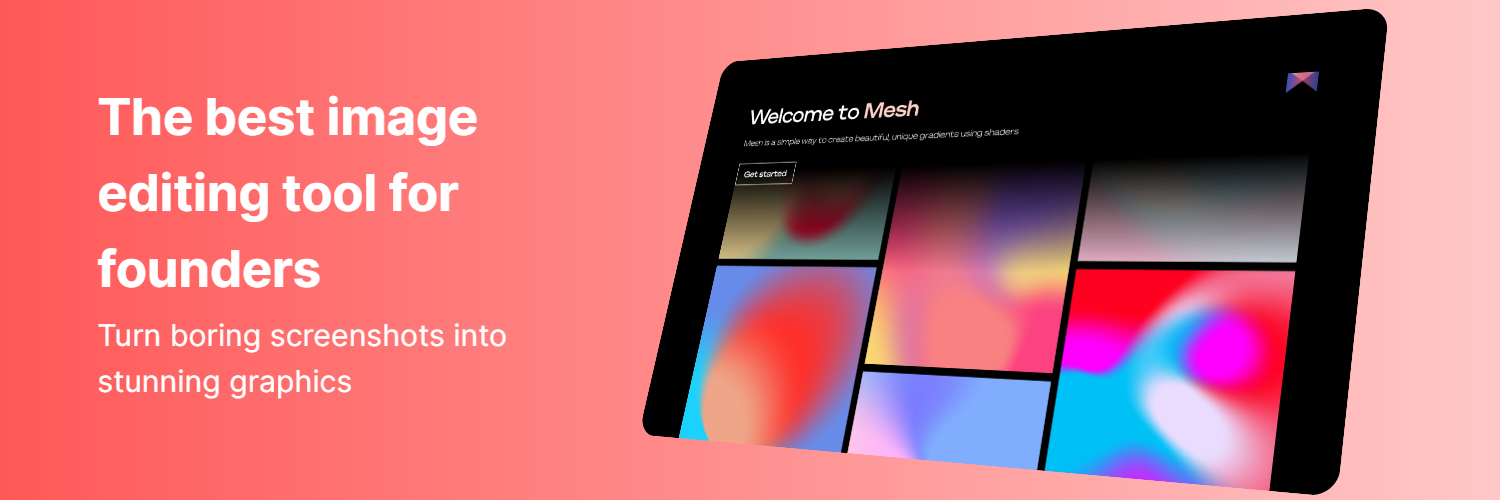
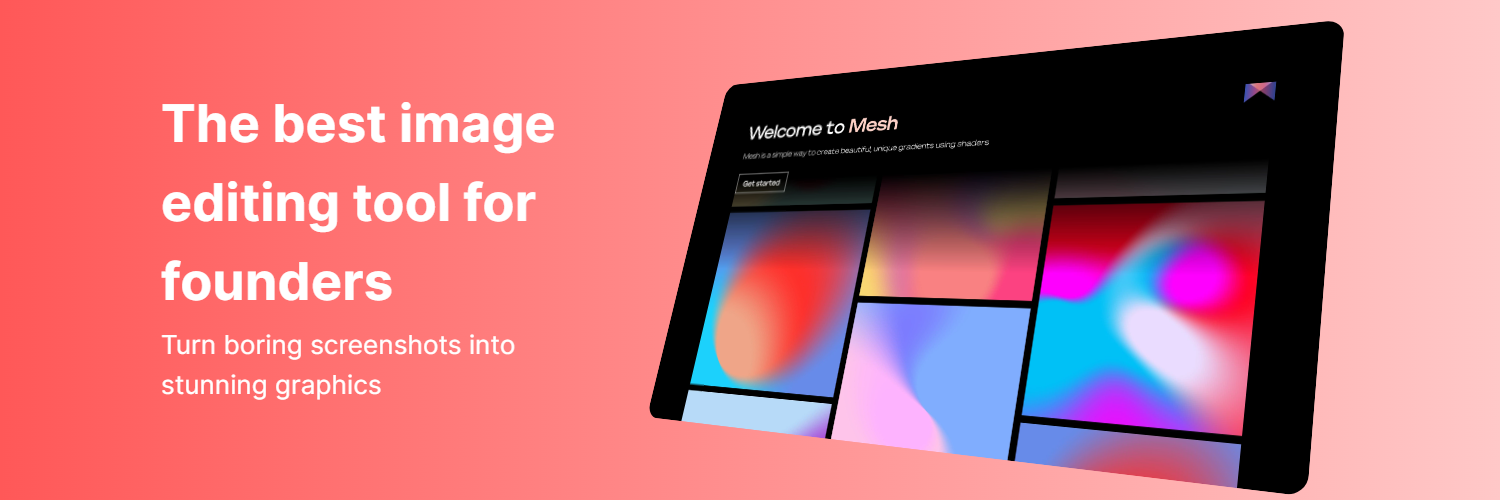
update editor presets

diff --git a/src/modules/editor/presets.tsx b/src/modules/editor/presets.tsx
@@ -1,4 +1,4 @@
-import { Config, ShadowConfig } from "@customTypes/configs";
+import { Config, ShadowConfig, FrameConfig } from "@customTypes/configs";
 export const defaultConfig: Config = {
   id: "config1",
   name: "default",
@@ -79,10 +79,10 @@ export const defaultConfig: Config = {
 export const templates: Partial<Config>[] = [
   {
     id: "config1",
-    preview: "preview_123.png",
+    preview: "preset_1.png",
     name: "default",
     size: {
-      scale: 100,
+      scale: 93,
       dimensions: {
         aspectRatio: "16 / 9",
         width: 1920,
@@ -97,7 +97,7 @@ export const templates: Partial<Config>[] = [
     },
     position: {
       x: 0,
-      y: 14,
+      y: 10,
     },
     background: {
       type: "gradient",
@@ -145,7 +145,7 @@ export const templates: Partial<Config>[] = [
         color: "rgba(255, 255, 255, 1)",
         bold: true,
         italic: false,
-        size: 3.87,
+        size: 100,
         padding: -4.36,
         translateX: 0,
       },
@@ -163,6 +163,12 @@ export const templates: Partial<Config>[] = [
         show: true,
       },
     },
+    watermark: {
+      show: false,
+      placement: "bottom-right",
+      theme: "light",
+    },
+
   },
   {
     id: "config2",
@@ -190,7 +196,7 @@ export const templates: Partial<Config>[] = [
       },
     },
     size: {
-      scale: 90,
+      scale: 80,
       dimensions: {
         aspectRatio: "16 / 9",
         width: 1920,
@@ -316,7 +322,7 @@ export const templates: Partial<Config>[] = [
     id: "config4",
     name: "default",
     size: {
-      scale: 110,
+      scale: 77,
       dimensions: {
         aspectRatio: "3 / 1",
         width: 1500,
@@ -330,8 +336,8 @@ export const templates: Partial<Config>[] = [
       perspective: 1876.6,
     },
     position: {
-      x: -1,
-      y: -1,
+      x: 0,
+      y: -4,
     },
     background: {
       type: "gradient",
@@ -371,8 +377,8 @@ export const templates: Partial<Config>[] = [
         color: "rgba(255, 255, 255, 1)",
         bold: true,
         italic: false,
-        size: 3.04,
-        padding: 0.4,
+        size: 113.5,
+        padding: 2.1,
         translateX: 0,
       },
     },
@@ -388,6 +394,11 @@ export const templates: Partial<Config>[] = [
       searchBar: {
         show: true,
       },
+    },
+    watermark: {
+      show: false,
+      placement: "bottom-right",
+      theme: "light",
     },
     preview: "preset_4.png",
   },
@@ -931,6 +942,24 @@ export const gradientPresets = [
     ],
     direction: 90,
   },
+  {
+    stops: [
+      { color: "#ffffff", id: 1 },
+      { color: "#bda6f0", id: 2 },
+      { color: "#cd96b3", id: 3 },
+      { color: "#ffffff", id: 4 },
+    ],
+    direction: 90,
+  },
+  {
+    stops: [
+      { color: "#ffffff", id: 1 },
+      { color: "#a5d8f0", id: 2 },
+      { color: "#959dcc", id: 3 },
+      { color: "#ffffff", id: 4 },
+    ],
+    direction: 90,
+  },
 ];
 export const colorPresets = [
   "#FFFFFF",
@@ -956,7 +985,7 @@ export const colorPresets = [
   "#a3e6c6",
 ];
 
-export const shadowPresets: ShadowConfig[] = [
+export const shadowPresets: Partial<ShadowConfig>[] = [
   {
     type: "none",
     previewSize: "0px 0px 0px",

diff --git a/src/common/types/configs.ts b/src/common/types/configs.ts
@@ -4,7 +4,7 @@ export type ImageDoc = {
   src: string;
 };
 export type GradientConfig = {
-  stops: { color: string; id: string | number }[];
+  stops: { color: string; id: number | string }[];
   direction: number;
 };
 export type BackgroundConfig = {
@@ -75,6 +75,7 @@ export type FrameConfig = {
   };
 };
 export type Config = {
+  preview?: string;
   id: string;
   name: string;
   size: SizeConfig;
